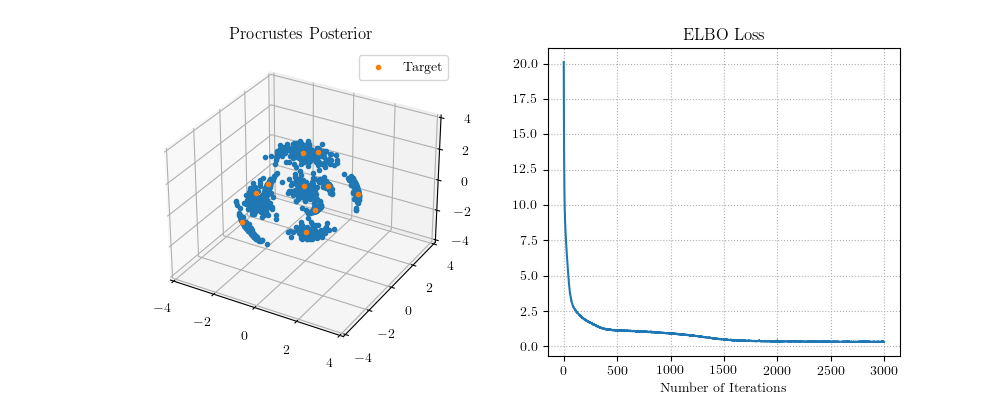
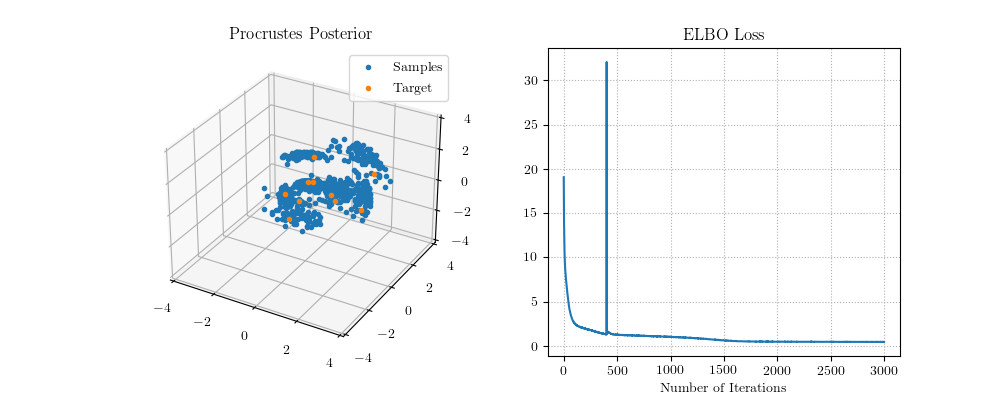
procrustes readme

diff --git a/examples/density-estimation/ambient-orthogonal/procrustes.py b/examples/density-estimation/ambient-orthogonal/procrustes.py
@@ -204,7 +204,7 @@ fig = plt.figure(figsize=(10, 4))
 ax = fig.add_subplot(121, projection='3d')
 ax.set_title('Procrustes Posterior')
 for i in range(100):
-    ax.plot(pro[i, :, 0], pro[i, :, 1], pro[i, :, 2], '.', color='tab:blue')
+    ax.plot(pro[i, :, 0], pro[i, :, 1], pro[i, :, 2], '.', color='tab:blue', label='Samples' if i == 0 else '_')
 
 ax.plot(target[:, 0], target[:, 1], target[:, 2], '.', label='Target', color='tab:orange')
 ax.legend()

diff --git a/examples/density-estimation/ambient-orthogonal/README.md b/examples/density-estimation/ambient-orthogonal/README.md
@@ -27,4 +27,5 @@ Here are the invocations to reproduce these experiments.
 ```
 singularity exec --nv ~/scratch60/singularity-containers/manifold-dequantization.sif python orthogonal.py --num-steps 500 --density unimodal
 singularity exec --nv ~/scratch60/singularity-containers/manifold-dequantization.sif python orthogonal.py --num-steps 500 --density multimodal --num-ambient 512 --num-dequantization 128
+singularity exec --nv ~/scratch60/singularity-containers/manifold-dequantization.sif python procrustes.py
 ```
